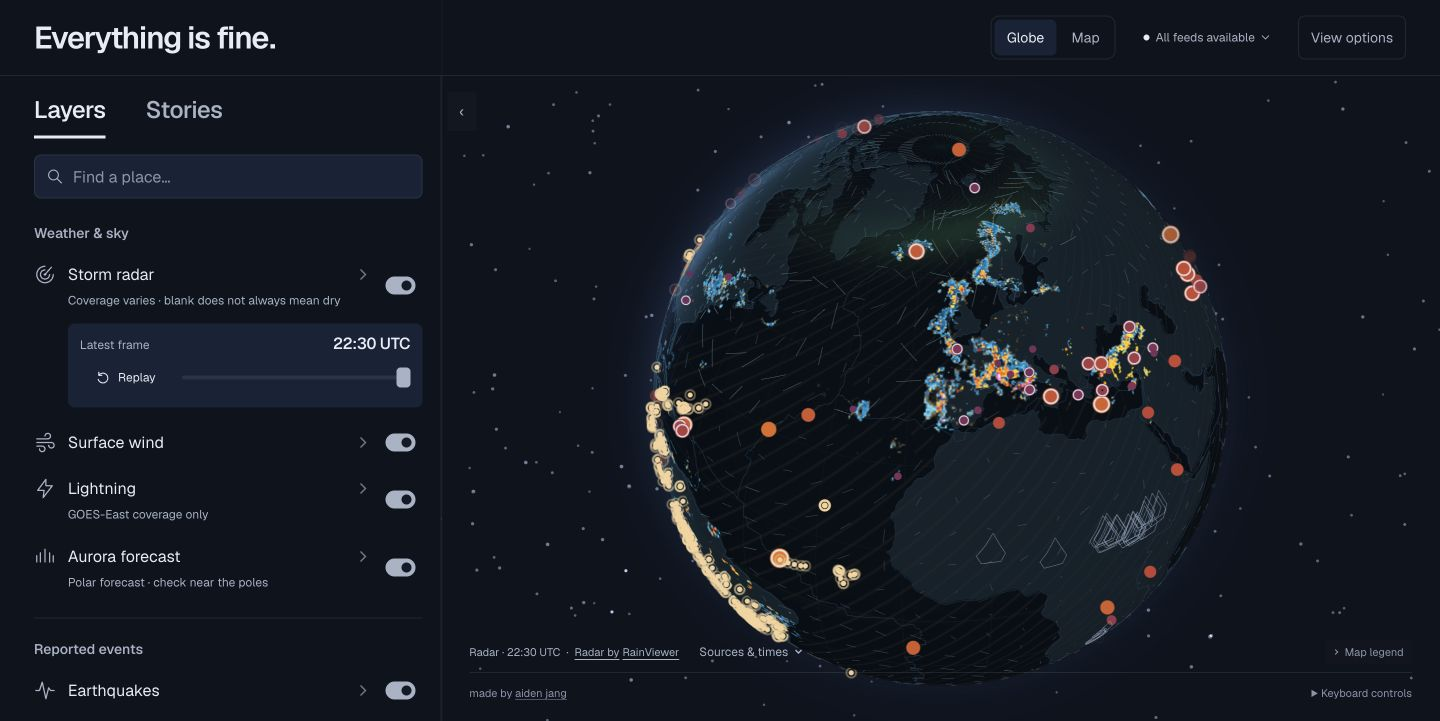
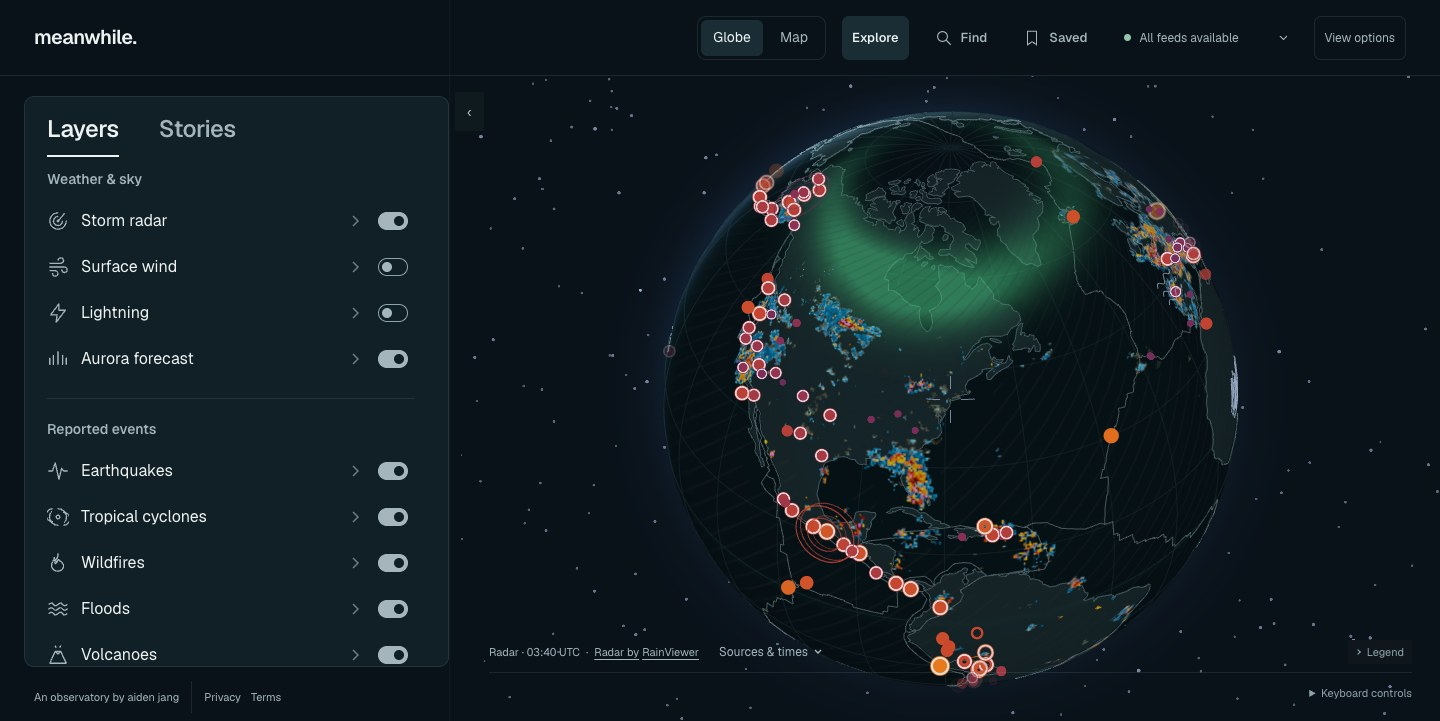
feat: feature meanwhile at its new domain

diff --git a/e2e/finish.spec.ts b/e2e/finish.spec.ts
@@ -95,14 +95,12 @@ for (const width of [1440, 390]) {
     await expect(project.getByRole('status')).toContainText('Screenshot unavailable');
     await expect(project.locator('[aria-busy="true"]')).toHaveCount(0);
     await expect(
-      project.getByRole('button', { name: 'Inspect screenshot: everythingisfine', exact: true }),
+      project.getByRole('button', { name: 'Inspect screenshot: meanwhile.', exact: true }),
     ).toBeDisabled();
     const failedFrame = (await thumbnail.boundingBox())!;
     expect(failedFrame.width).toBeCloseTo(originalFrame.width, 0);
     expect(failedFrame.height).toBeCloseTo(originalFrame.height, 0);
-    await project
-      .getByRole('button', { name: 'How I built it: everythingisfine', exact: true })
-      .click();
+    await project.getByRole('button', { name: 'How I built it: meanwhile.', exact: true }).click();
     await expect(page.locator('#work-modal-title')).toContainText('everythingisfine');
   });
 }
@@ -114,18 +112,16 @@ test('reader keeps the current identity and named next project after scrolling',
   await page.goto('/#sec-work');
   const project = page.locator('#project-everythingisfine');
   await project
-    .getByRole('button', { name: 'Inspect screenshot: everythingisfine', exact: true })
+    .getByRole('button', { name: 'Inspect screenshot: meanwhile.', exact: true })
     .click();
-  const viewer = page.getByRole('dialog', { name: 'everythingisfine screenshot', exact: true });
+  const viewer = page.getByRole('dialog', { name: 'meanwhile. screenshot', exact: true });
   const image = viewer.getByRole('img', {
-    name: 'everythingisfine product interface, full screenshot',
+    name: 'meanwhile. product interface, full screenshot',
   });
   await expect(image).toBeInViewport({ ratio: 0.99 });
   await expect(image).toHaveAttribute('src', '/projects/everythingisfine.jpg');
   await page.keyboard.press('Escape');
-  await project
-    .getByRole('button', { name: 'How I built it: everythingisfine', exact: true })
-    .click();
+  await project.getByRole('button', { name: 'How I built it: meanwhile.', exact: true }).click();
   const title = page.locator('#work-modal-title');
   const top = (await title.boundingBox())!.y;
   await page.locator('.story-scroll-area').evaluate((element) => {
@@ -133,7 +129,7 @@ test('reader keeps the current identity and named next project after scrolling',
   });
   expect((await title.boundingBox())!.y).toBeCloseTo(top, 1);
   await expect(
-    page.locator('.work-story-ending').getByRole('link', { name: /Open everythingisfine/ }),
+    page.locator('.work-story-ending').getByRole('link', { name: /Open meanwhile./ }),
   ).toBeVisible();
   await expect(page.getByRole('button', { name: 'Next case study', exact: true })).toHaveText(
     /Next: iodine/,

diff --git a/src/data/workItems.ts b/src/data/workItems.ts
@@ -2,7 +2,7 @@ import type { WorkDetail } from '../types';
 
 /** The `#work/...` fragment for an entry. Two entries sharing one would share a URL. */
 export function workId(item: WorkDetail): string {
-  return (item.shortName ?? item.title)
+  return (item.slug ?? item.shortName ?? item.title)
     .toLowerCase()
     .replace(/[^a-z0-9]+/g, '-')
     .replace(/(^-|-$)/g, '');
@@ -36,7 +36,7 @@ export const WORK_ITEMS: WorkDetail[] = [
     links: [{ label: 'Source code', url: 'https://github.com/aiden-jang/auth' }],
   },
   {
-    title: 'everythingisfine: the planet, live',
+    title: 'meanwhile. — the planet, live',
     context: 'Side project',
     summary:
       'I built a live globe for natural events, matching differing earthquake reports while keeping their source details visible.',
@@ -47,14 +47,21 @@ export const WORK_ITEMS: WorkDetail[] = [
     ],
     stack: ['Three.js', 'WebGL', 'TypeScript', 'React', 'WebSockets', 'Cloudflare'],
     mark: 'everythingisfine',
-    shortName: 'everythingisfine',
+    slug: 'everythingisfine',
+    shortName: 'meanwhile.',
     tagline: 'The planet, live.',
     categories: ['realtime', 'systems'],
     moment: 'wanting to know what the planet is up to without a news cycle attached',
     principle:
       'Keep source readings visible when agencies disagree. The globe is a way to explore the data, not smooth over its differences.',
-    link: { label: 'Open everythingisfine', url: 'https://everythingisfine.aidenjang.com' },
-    links: [{ label: 'Source code', url: 'https://github.com/aiden-jang/everythingisfine' }],
+    link: { label: 'Open meanwhile.', url: 'https://meanwhile.aidenjang.com' },
+    links: [
+      {
+        label: 'Open Float Dive',
+        url: 'https://meanwhile.aidenjang.com/#story=float&choice=recorded/6901932/268/1792482240000&chapter=317&v=observe',
+      },
+      { label: 'Source code', url: 'https://github.com/aiden-jang/everythingisfine' },
+    ],
   },
   {
     title: 'worth: keep your own taste',

diff --git a/src/data/workBrowsing.test.ts b/src/data/workBrowsing.test.ts
@@ -5,7 +5,7 @@ import {
   isPortfolioProject,
   visibleProjects,
 } from './workBrowsing';
-import { WORK_ITEMS } from './workItems';
+import { WORK_ITEMS, workId } from './workItems';
 
 describe('case study browsing', () => {
   it('keeps a filtered case study in the visible project lane', () => {
@@ -24,12 +24,19 @@ describe('case study browsing', () => {
     expect(lane.every((item) => !isPortfolioProject(item))).toBe(true);
     expect(lane.some((item) => item.contribution)).toBe(false);
   });
-  it('leads with everythingisfine and iodine while keeping the other projects in order', () => {
+  it('keeps the renamed featured project first and preserves its case study link', () => {
     expect(FEATURED_PROJECTS).toEqual(['everythingisfine', 'iodine']);
-    expect(
-      visibleProjects('all')
-        .filter((item) => !FEATURED_PROJECTS.includes(item.shortName!))
-        .map((item) => item.shortName),
-    ).toEqual(['mrrp', 'worth', 'bloomnote', 'owewell', 'iguess', 'wherever', 'platform']);
+    const projects = visibleProjects('all');
+    expect(projects[0]?.shortName).toBe('meanwhile.');
+    expect(projects.map(workId)).toEqual([
+      ...FEATURED_PROJECTS,
+      'mrrp',
+      'worth',
+      'bloomnote',
+      'owewell',
+      'iguess',
+      'wherever',
+      'platform',
+    ]);
   });
 });

diff --git a/src/ui/showcase/InteractiveGlobe.tsx b/src/ui/showcase/InteractiveGlobe.tsx
@@ -174,7 +174,7 @@ export function InteractiveGlobe({ image, caption }: { image: string; caption: s
               {posterUnavailable ? (
                 <ScreenshotImage
                   src={image}
-                  alt="everythingisfine product interface"
+                  alt="meanwhile. product interface"
                   lazy
                   onUnavailable={() => setScreenshotUnavailable(true)}
                 />
@@ -237,7 +237,7 @@ export function InteractiveGlobe({ image, caption }: { image: string; caption: s
               type="button"
               className="orbit-screenshot"
               disabled={screenshotUnavailable}
-              aria-label="Inspect screenshot: everythingisfine"
+              aria-label="Inspect screenshot: meanwhile."
               title="View full screenshot"
               onClick={() => setViewer(true)}
             >
@@ -275,7 +275,7 @@ export function InteractiveGlobe({ image, caption }: { image: string; caption: s
       {viewer && (
         <ScreenshotViewer
           image={image}
-          name="everythingisfine"
+          name="meanwhile."
           caption={caption}
           returnFocus={inspect.current}
           onClose={() => setViewer(false)}

diff --git a/e2e/polish.spec.ts b/e2e/polish.spec.ts
@@ -5,11 +5,11 @@ for (const width of [1440, 390]) {
     await page.setViewportSize({ width, height: 900 });
     await page.goto('/#sec-work');
     const trigger = page.getByRole('button', {
-      name: 'Inspect screenshot: everythingisfine',
+      name: 'Inspect screenshot: meanwhile.',
       exact: true,
     });
     await trigger.click();
-    const viewer = page.getByRole('dialog', { name: 'everythingisfine screenshot', exact: true });
+    const viewer = page.getByRole('dialog', { name: 'meanwhile. screenshot', exact: true });
     const image = viewer.getByRole('img');
     await expect(image).toHaveAttribute('src', '/projects/everythingisfine.jpg');
     const fitted = (await image.boundingBox())!.width;
@@ -35,7 +35,7 @@ test('phone reader keeps source and sharing available with independent Escape di
   });
   await page.goto('/#sec-work');
   const trigger = page.getByRole('button', {
-    name: 'How I built it: everythingisfine',
+    name: 'How I built it: meanwhile.',
     exact: true,
   });
   await trigger.click();

diff --git a/src/ui/showcase/EarthquakeFeature.tsx b/src/ui/showcase/EarthquakeFeature.tsx
@@ -95,7 +95,7 @@ export function EarthquakeFeature({ item, preview, onOpen }: Props) {
                 <button
                   type="button"
                   className="featured-text-action"
-                  aria-label="How I built it: everythingisfine"
+                  aria-label="How I built it: meanwhile."
                   onClick={(event) => onOpen(item, event.currentTarget)}
                 >
                   How I built it <span aria-hidden="true">↗</span>
@@ -106,7 +106,7 @@ export function EarthquakeFeature({ item, preview, onOpen }: Props) {
                     href={item.link.url}
                     target="_blank"
                     aria-describedby="external-link-hint"
-                    aria-label="Open everythingisfine"
+                    aria-label="Open meanwhile."
                     rel="noopener"
                   >
                     Open app <span aria-hidden="true">↗</span>

diff --git a/src/data/workBrowsing.ts b/src/data/workBrowsing.ts
@@ -1,4 +1,4 @@
-import { WORK_ITEMS } from './workItems';
+import { WORK_ITEMS, workId } from './workItems';
 import type { WorkDetail } from '../types';
 
 export type ProjectFilter = 'all' | 'realtime' | 'ai' | 'social' | 'systems';
@@ -21,7 +21,7 @@ export function isPortfolioProject(item: WorkDetail): boolean {
 export function visibleProjects(filter: ProjectFilter): WorkDetail[] {
   return WORK_ITEMS.filter(
     (item) => isPortfolioProject(item) && (filter === 'all' || item.categories?.includes(filter)),
-  ).sort((a, b) => PROJECT_ORDER.indexOf(a.shortName!) - PROJECT_ORDER.indexOf(b.shortName!));
+  ).sort((a, b) => PROJECT_ORDER.indexOf(workId(a)) - PROJECT_ORDER.indexOf(workId(b)));
 }
 
 export function caseStudyLane(item: WorkDetail, filter: ProjectFilter): WorkDetail[] {

diff --git a/src/ui/showcase/globe/data.ts b/src/ui/showcase/globe/data.ts
@@ -58,5 +58,5 @@ export function readEvents(snapshot: Snapshot): GlobeEvent[] {
 export function eventLink(event: GlobeEvent, pose: GlobePose): string {
   const round = (n: number) => Number(n.toFixed(2));
   const lon = pose.lon - 360 * Math.floor((pose.lon + 180) / 360);
-  return `https://everythingisfine.aidenjang.com/#at=${round(lon)},${round(pose.lat)},${round(pose.zoom)}&m=2.5&w=720&s=usgs&r=thermal&v=explore&e=usgs:${encodeURIComponent(event.id)}`;
+  return `https://meanwhile.aidenjang.com/#at=${round(lon)},${round(pose.lat)},${round(pose.zoom)}&m=2.5&w=720&s=usgs&r=thermal&v=explore&e=usgs:${encodeURIComponent(event.id)}`;
 }

diff --git a/src/ui/sections/Work.tsx b/src/ui/sections/Work.tsx
@@ -12,8 +12,8 @@ import { ControlIcon } from '../ControlIcon';
 
 type Props = { onOpen: (item: WorkDetail, el: HTMLElement) => void };
 const projects = visibleProjects('all');
-const featured = projects.filter((item) => FEATURED_PROJECTS.includes(item.shortName!));
-const collection = projects.filter((item) => !FEATURED_PROJECTS.includes(item.shortName!));
+const featured = projects.filter((item) => FEATURED_PROJECTS.includes(workId(item)));
+const collection = projects.filter((item) => !FEATURED_PROJECTS.includes(workId(item)));
 
 export function WorkSection({ onOpen }: Props) {
   return (

diff --git a/src/ui/showcase/globe/data.test.ts b/src/ui/showcase/globe/data.test.ts
@@ -33,7 +33,7 @@ it('opens the selected USGS event with the current camera and data filters', () 
   const event = readEvents({ metadata: { generated: 1794876959000 }, features: [feature] })[0];
   const url = new URL(eventLink(event, { lon: 505, lat: 24, zoom: 1.2 })),
     params = new URLSearchParams(url.hash.slice(1));
-  expect(url.origin).toBe('https://everythingisfine.aidenjang.com');
+  expect(url.origin).toBe('https://meanwhile.aidenjang.com');
   expect(params.get('at')).toBe('145,24,1.2');
   expect(params.get('e')).toBe('usgs:us123');
   expect(params.get('s')).toBe('usgs');

diff --git a/e2e/showcase.spec.ts b/e2e/showcase.spec.ts
@@ -16,7 +16,7 @@ for (const width of [1440, 390]) {
     await expect(link).toBeVisible();
     await expect(link).toHaveAccessibleDescription('Opens in a new tab');
     const url = new URL((await link.getAttribute('href'))!);
-    expect(url.hostname).toBe('everythingisfine.aidenjang.com');
+    expect(url.hostname).toBe('meanwhile.aidenjang.com');
     expect(new URLSearchParams(url.hash.slice(1)).get('e')).toMatch(/^usgs:/);
     await page.getByRole('button', { name: 'Close event details' }).click();
     const canvas = page.locator('#globe-view');

diff --git a/src/ui/WorkStoryOpening.tsx b/src/ui/WorkStoryOpening.tsx
@@ -13,8 +13,8 @@ export function WorkStoryOpening({ item }: { item: WorkDetail }) {
           Keep both readings.
         </h4>
         <p>
-          I built the matching logic for Everything Is Fine so two agencies can report the same
-          quake without losing either source’s measurements.
+          I built the matching logic so two agencies can report the same quake without losing either
+          source’s measurements.
         </p>
         <EarthquakeMatch />
       </section>
